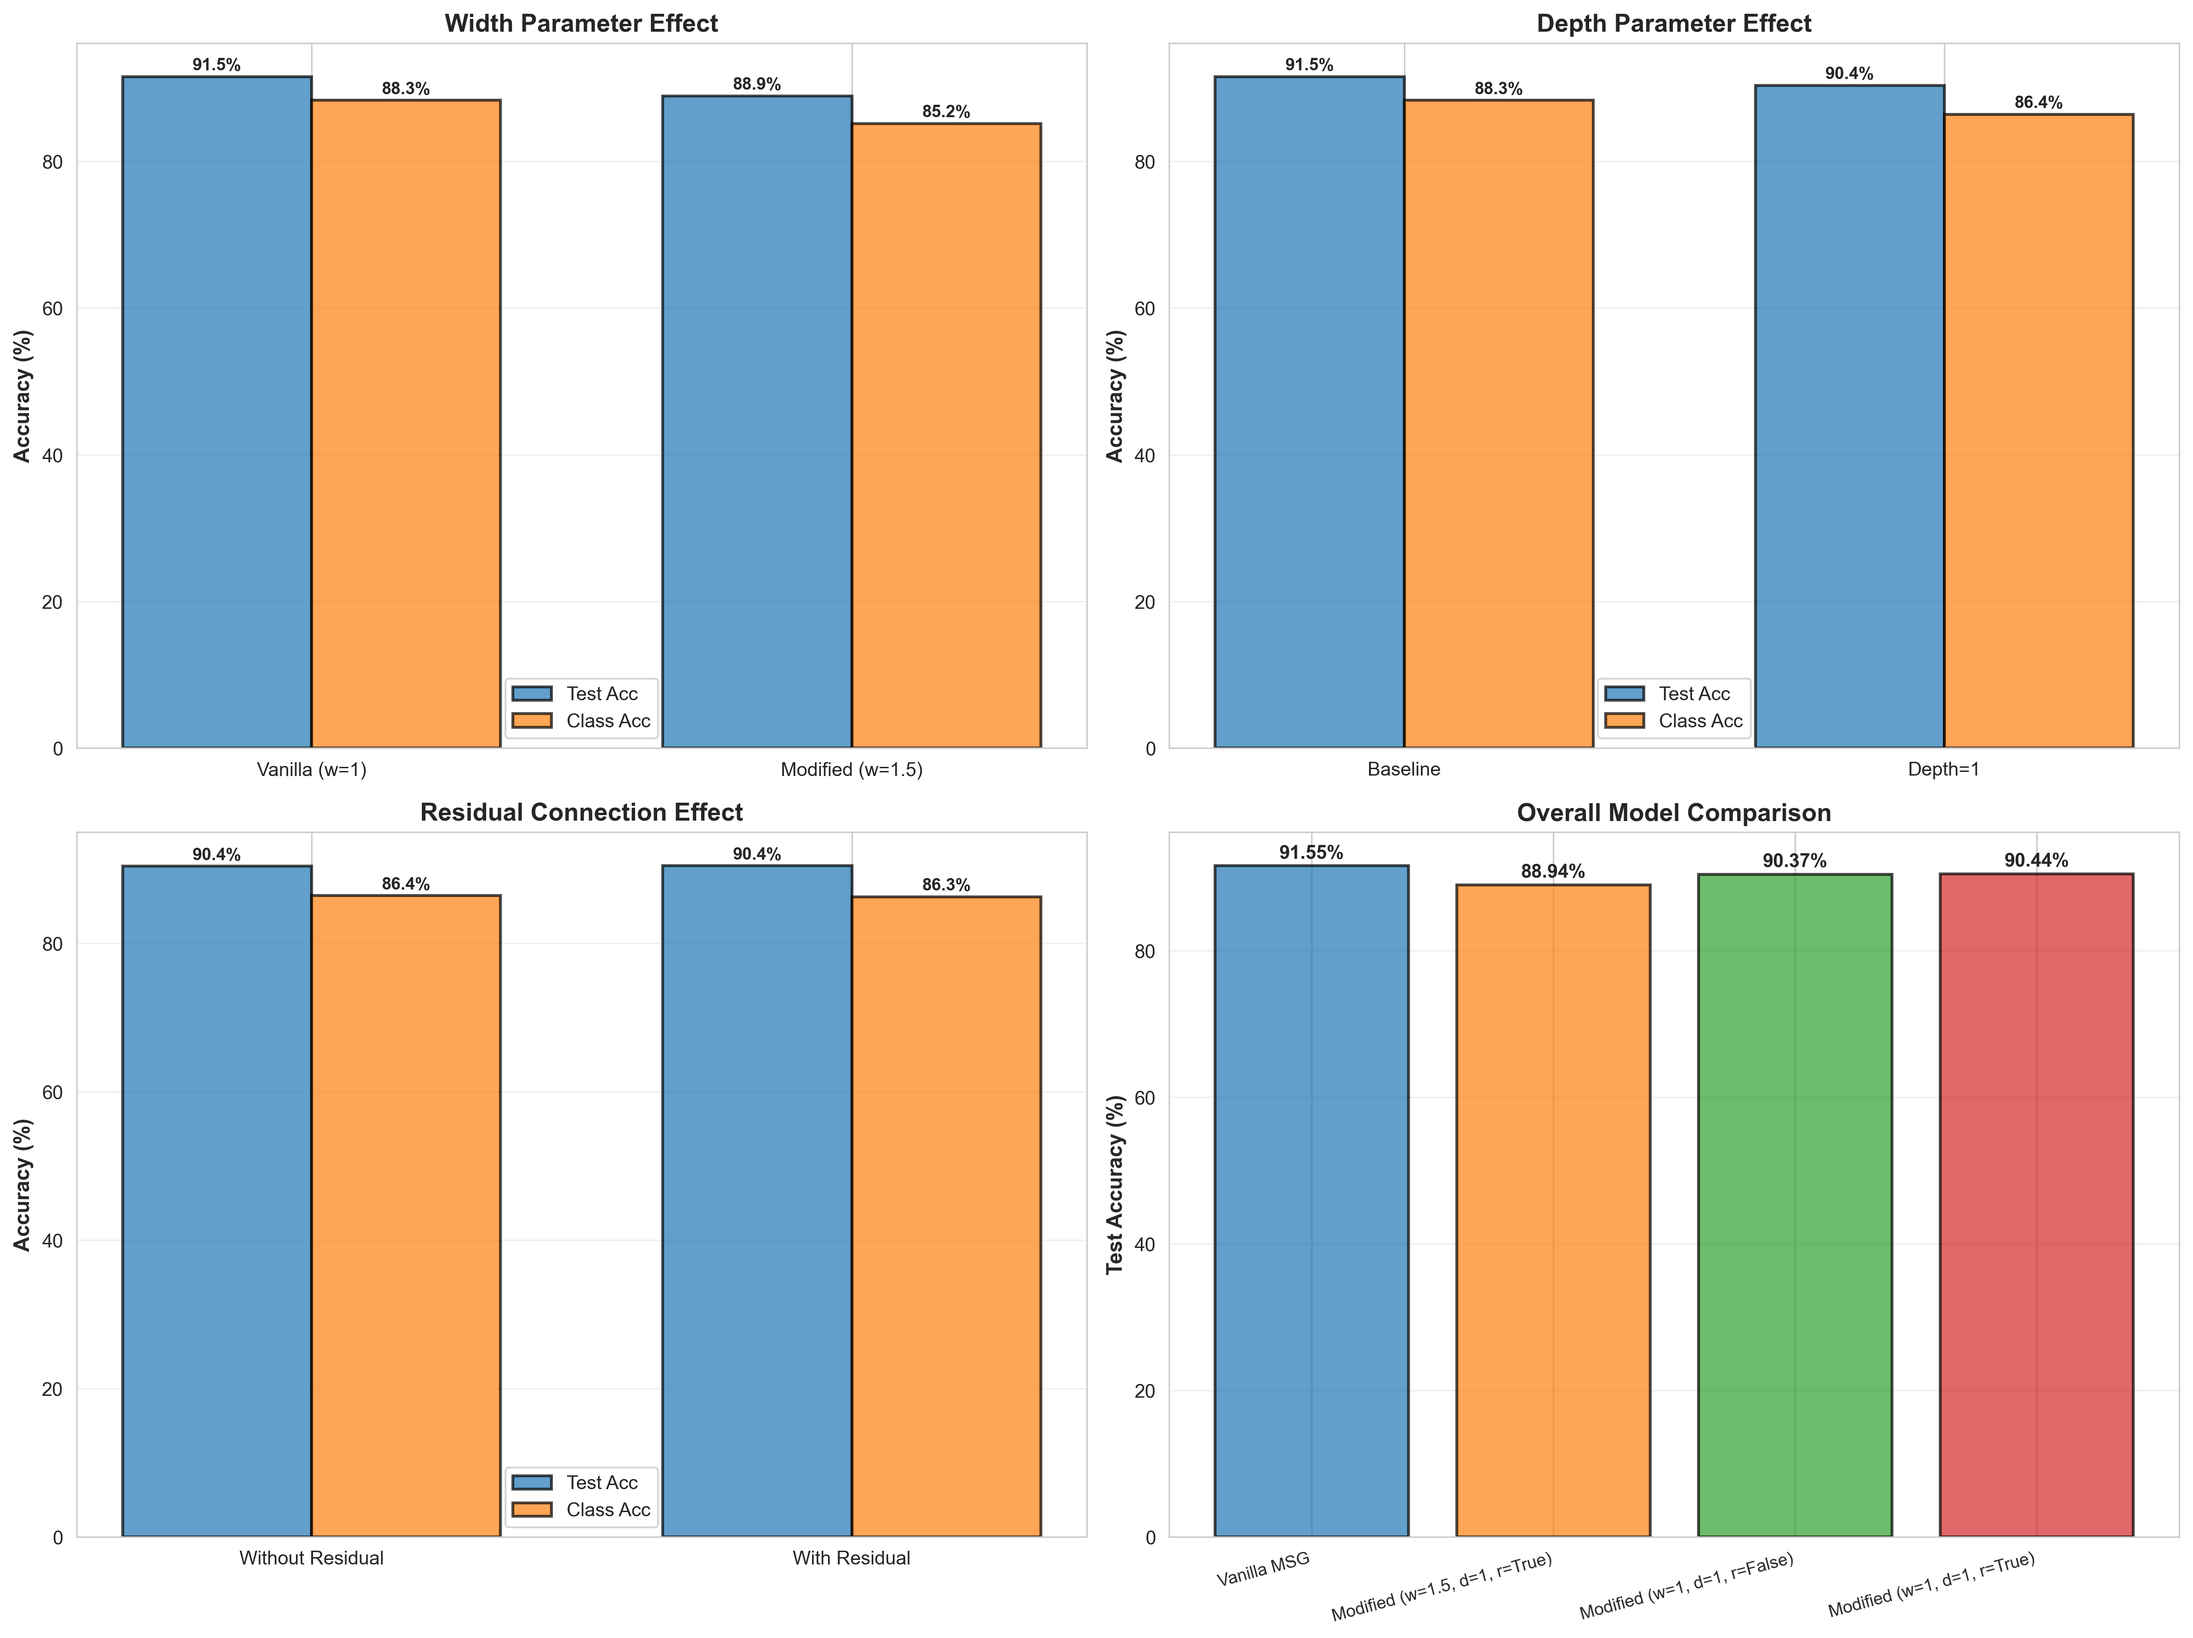
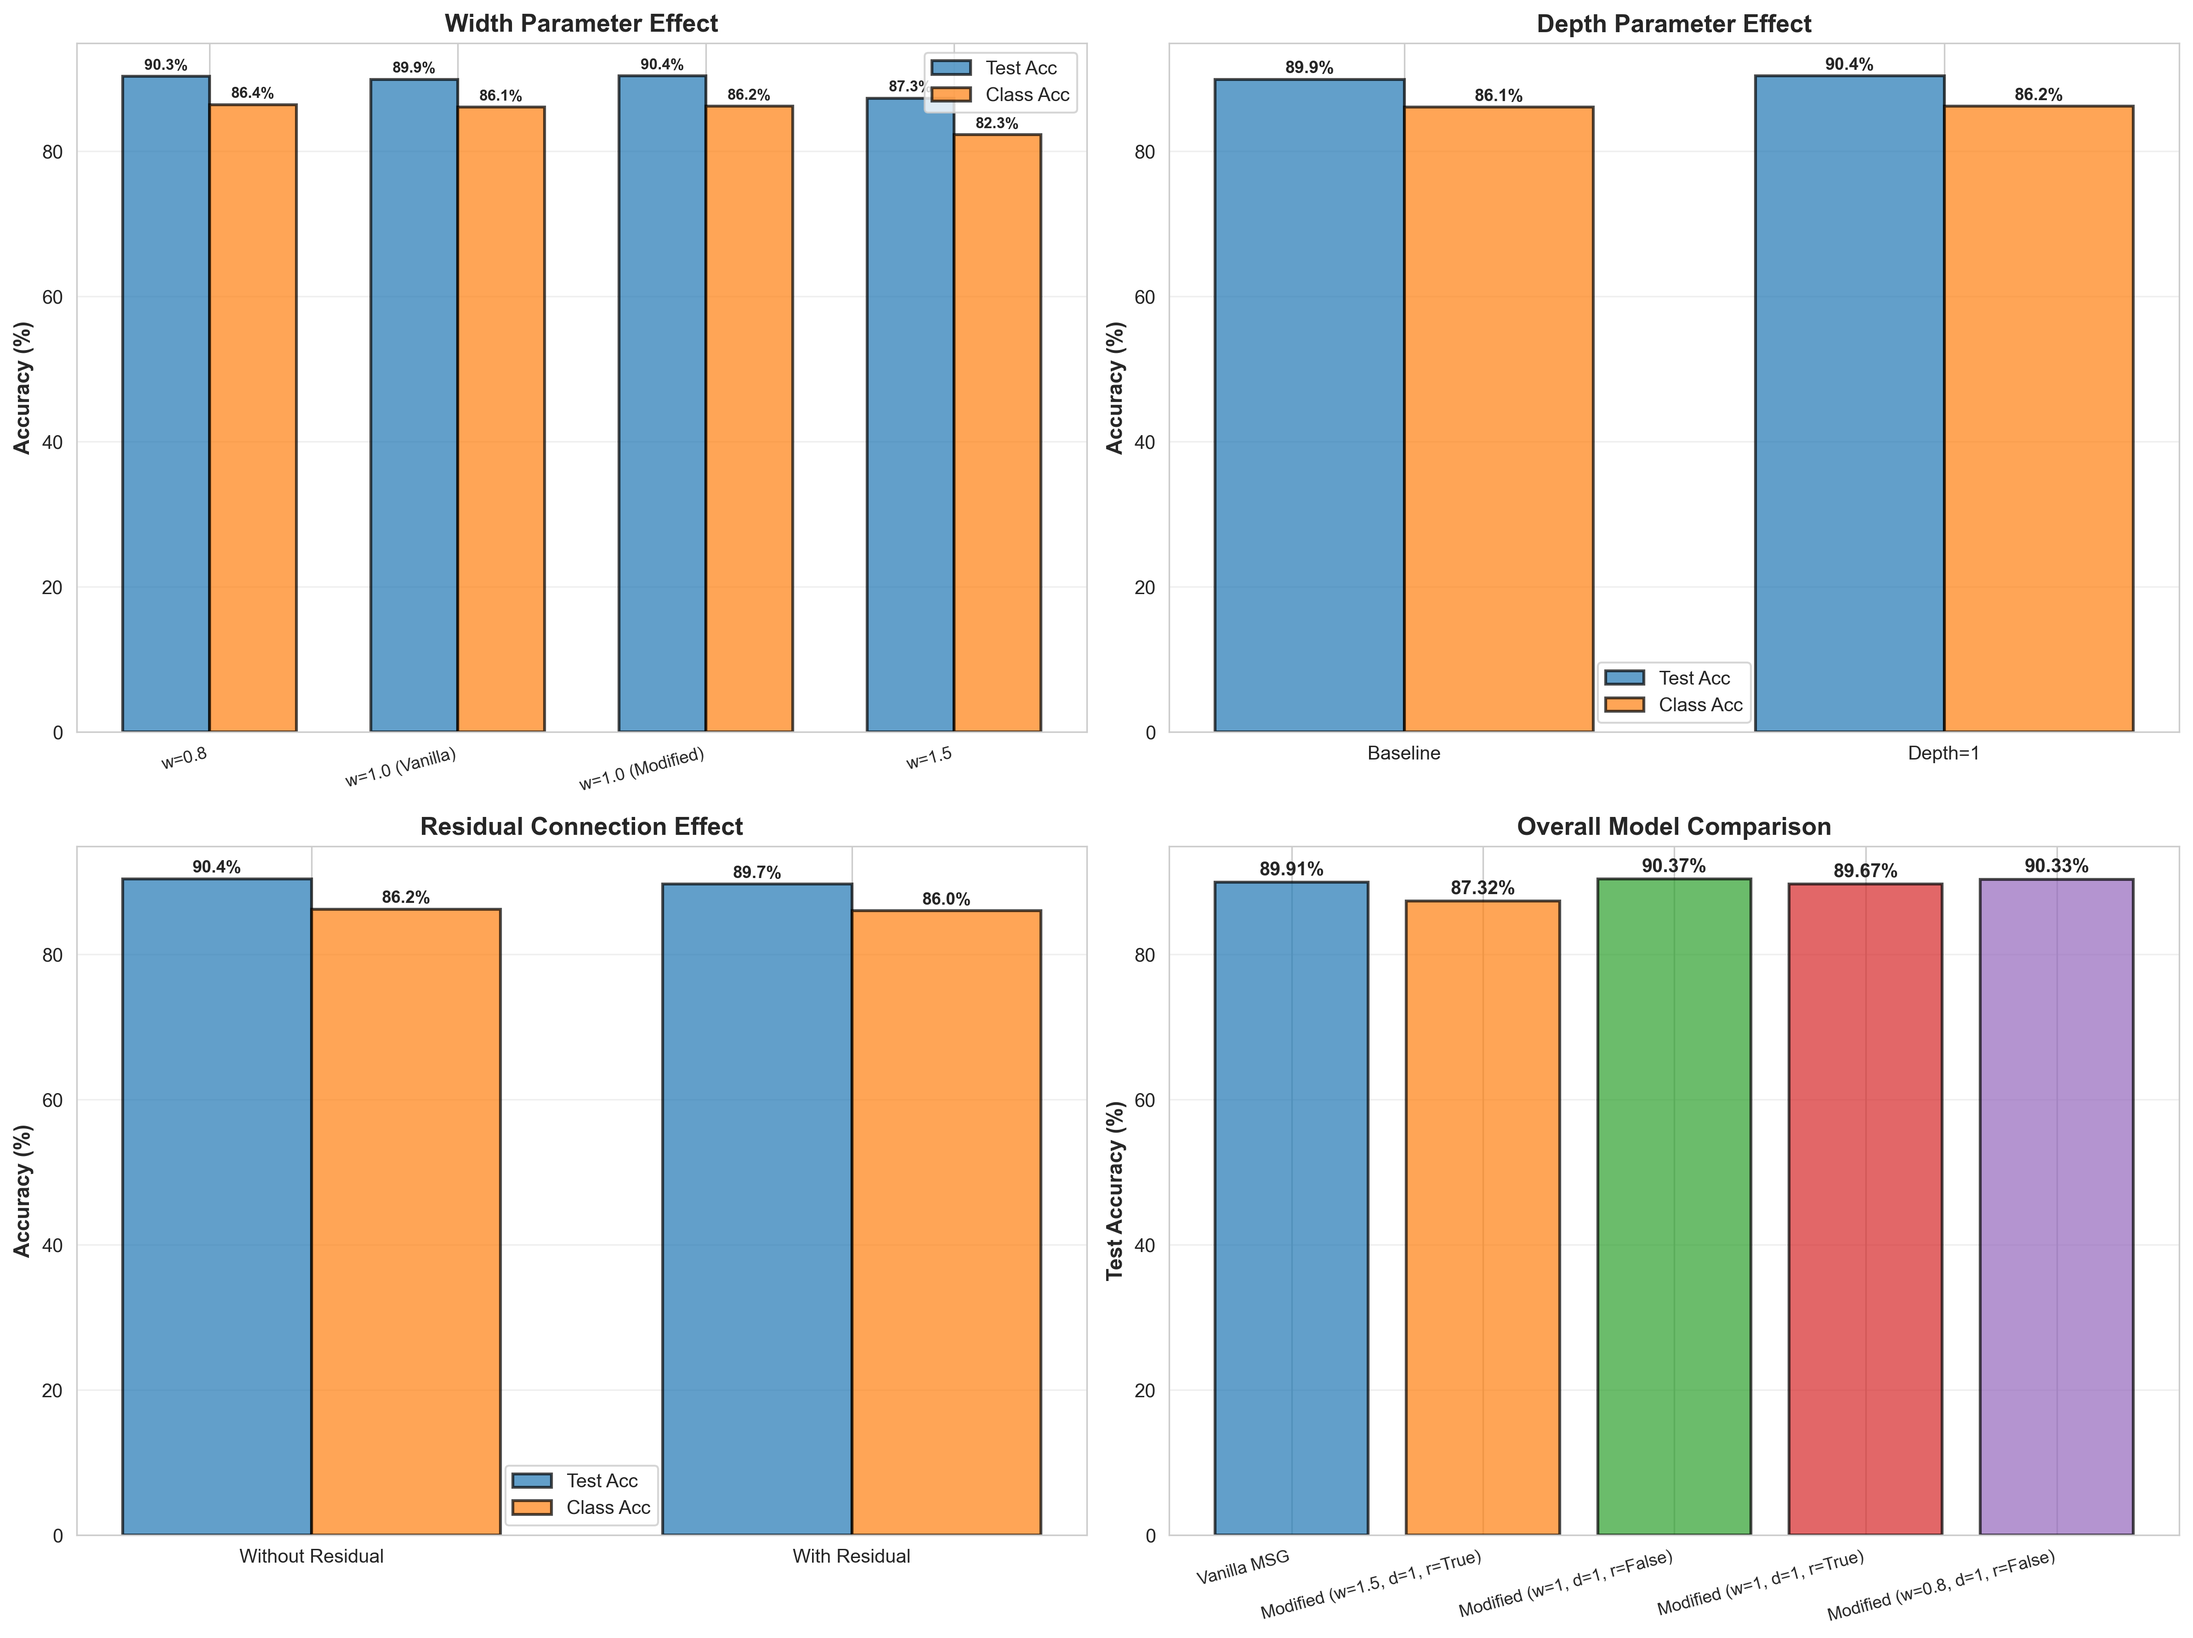
Update MSG model performance summary and visualizations; add new data and refine analysis

diff --git a/Pointnet_Pointnet2_pytorch/visualize_msg_results.py b/Pointnet_Pointnet2_pytorch/visualize_msg_results.py
@@ -14,7 +14,7 @@ output_dir = Path('visualization_results_msg')
 output_dir.mkdir(exist_ok=True)
 
 # Read the CSV file - skip first header row, use second row as column names
-df = pd.read_csv('pointnet2_msg.csv', skiprows=[0])
+df = pd.read_csv('pointnet2_msg_2.csv', skiprows=[0])
 
 # Parse the data - the CSV has a complex structure with multiple model configurations
 # Column structure: vanilla msg model (3 cols), modified msg model w=1.5,d=1,r=True (3 cols), 
@@ -55,6 +55,13 @@ models = {
         'class_acc': 'class_acc.3',
         'color': '#d62728',
         'config': 'width=1, depth=1, residual=True'
+    },
+    'Modified (w=0.8, d=1, r=False)': {
+        'train_acc': 'train_instance_acc.4',
+        'test_acc': 'test_instance_acc.4',
+        'class_acc': 'class_acc.4',
+        'color': '#9467bd',
+        'config': 'width=0.8, depth=1, residual=False'
     }
 }
 
@@ -74,7 +81,7 @@ ax1.set_ylabel('Test Instance Accuracy', fontsize=12, fontweight='bold')
 ax1.set_title('Test Instance Accuracy Over Training', fontsize=14, fontweight='bold')
 ax1.legend(fontsize=9, loc='lower right')
 ax1.grid(True, alpha=0.3)
-ax1.set_xlim(0, 51)
+ax1.set_xlim(0, 20)
 
 for model_name, cols in models.items():
     data = df_clean[['epoch', cols['train_acc']]].dropna()
@@ -87,7 +94,7 @@ ax2.set_ylabel('Training Instance Accuracy', fontsize=12, fontweight='bold')
 ax2.set_title('Training Instance Accuracy Over Training', fontsize=14, fontweight='bold')
 ax2.legend(fontsize=9, loc='lower right')
 ax2.grid(True, alpha=0.3)
-ax2.set_xlim(0, 51)
+ax2.set_xlim(0, 20)
 
 plt.tight_layout()
 plt.savefig(output_dir / 'msg_training_test_accuracy.png', dpi=300, bbox_inches='tight')
@@ -110,7 +117,7 @@ ax.set_ylabel('Test Class Accuracy', fontsize=12, fontweight='bold')
 ax.set_title('Test Class Accuracy Comparison Across MSG Configurations', fontsize=14, fontweight='bold')
 ax.legend(fontsize=10, loc='lower right')
 ax.grid(True, alpha=0.3)
-ax.set_xlim(0, 51)
+ax.set_xlim(0, 20)
 
 plt.tight_layout()
 plt.savefig(output_dir / 'msg_class_accuracy.png', dpi=300, bbox_inches='tight')
@@ -284,8 +291,10 @@ fig, axes = plt.subplots(2, 2, figsize=(16, 12))
 # Group by configuration parameters
 config_groups = {
     'Width Effect': [
-        ('Vanilla (w=1)', 'Vanilla MSG', best_results['Vanilla MSG']),
-        ('Modified (w=1.5)', 'Modified (w=1.5, d=1, r=True)', best_results['Modified (w=1.5, d=1, r=True)'])
+        ('w=0.8', 'Modified (w=0.8, d=1, r=False)', best_results['Modified (w=0.8, d=1, r=False)']),
+        ('w=1.0 (Vanilla)', 'Vanilla MSG', best_results['Vanilla MSG']),
+        ('w=1.0 (Modified)', 'Modified (w=1, d=1, r=False)', best_results['Modified (w=1, d=1, r=False)']),
+        ('w=1.5', 'Modified (w=1.5, d=1, r=True)', best_results['Modified (w=1.5, d=1, r=True)'])
     ],
     'Depth Effect': [
         ('Baseline', 'Vanilla MSG', best_results['Vanilla MSG']),
@@ -308,14 +317,14 @@ bars2 = axes[0, 0].bar(x + width/2, class_vals, width, label='Class Acc', alpha=
 axes[0, 0].set_ylabel('Accuracy (%)', fontsize=11, fontweight='bold')
 axes[0, 0].set_title('Width Parameter Effect', fontsize=13, fontweight='bold')
 axes[0, 0].set_xticks(x)
-axes[0, 0].set_xticklabels(labels, fontsize=10)
+axes[0, 0].set_xticklabels(labels, fontsize=9, rotation=15, ha='right')
 axes[0, 0].legend(fontsize=10)
 axes[0, 0].grid(True, alpha=0.3, axis='y')
 for bars in [bars1, bars2]:
     for bar in bars:
         height = bar.get_height()
         axes[0, 0].text(bar.get_x() + bar.get_width()/2., height + 0.5,
-                        f'{height:.1f}%', ha='center', va='bottom', fontsize=9, fontweight='bold')
+                        f'{height:.1f}%', ha='center', va='bottom', fontsize=8, fontweight='bold')
 
 # Depth effect
 labels = [item[0] for item in config_groups['Depth Effect']]
@@ -486,15 +495,22 @@ report.append("=" * 80)
 # Analyze configuration effects
 vanilla_test = best_results['Vanilla MSG']['test_acc']
 depth_test = best_results['Modified (w=1, d=1, r=False)']['test_acc']
-width_test = best_results['Modified (w=1.5, d=1, r=True)']['test_acc']
+width_15_test = best_results['Modified (w=1.5, d=1, r=True)']['test_acc']
+width_08_test = best_results['Modified (w=0.8, d=1, r=False)']['test_acc']
 residual_test = best_results['Modified (w=1, d=1, r=True)']['test_acc']
 
-report.append(f"1. Depth Effect: Adding depth (d=1) improved test accuracy by {(depth_test - vanilla_test)*100:.2f}%")
-report.append(f"   ({vanilla_test*100:.2f}% -> {depth_test*100:.2f}%)")
+report.append(f"1. Depth Effect: Adding depth (d=1) to baseline:")
+report.append(f"   Vanilla (d=0): {vanilla_test*100:.2f}%")
+report.append(f"   Modified (w=1, d=1, r=False): {depth_test*100:.2f}%")
+report.append(f"   Improvement: {(depth_test - vanilla_test)*100:.2f}%")
 report.append("")
-report.append(f"2. Width Effect: Increasing width (w=1.5) with depth and residual gave {width_test*100:.2f}% test accuracy")
+report.append(f"2. Width Effect (all with d=1):")
+report.append(f"   w=0.8: {width_08_test*100:.2f}%")
+report.append(f"   w=1.0: {depth_test*100:.2f}%")
+report.append(f"   w=1.5: {width_15_test*100:.2f}%")
+report.append(f"   Best width: 1.0 or 0.8")
 report.append("")
-report.append(f"3. Residual Effect: Comparing models with same width/depth but different residual:")
+report.append(f"3. Residual Effect (w=1, d=1):")
 report.append(f"   Without residual: {depth_test*100:.2f}%")
 report.append(f"   With residual: {residual_test*100:.2f}%")
 report.append(f"   Difference: {(residual_test - depth_test)*100:.2f}%")
